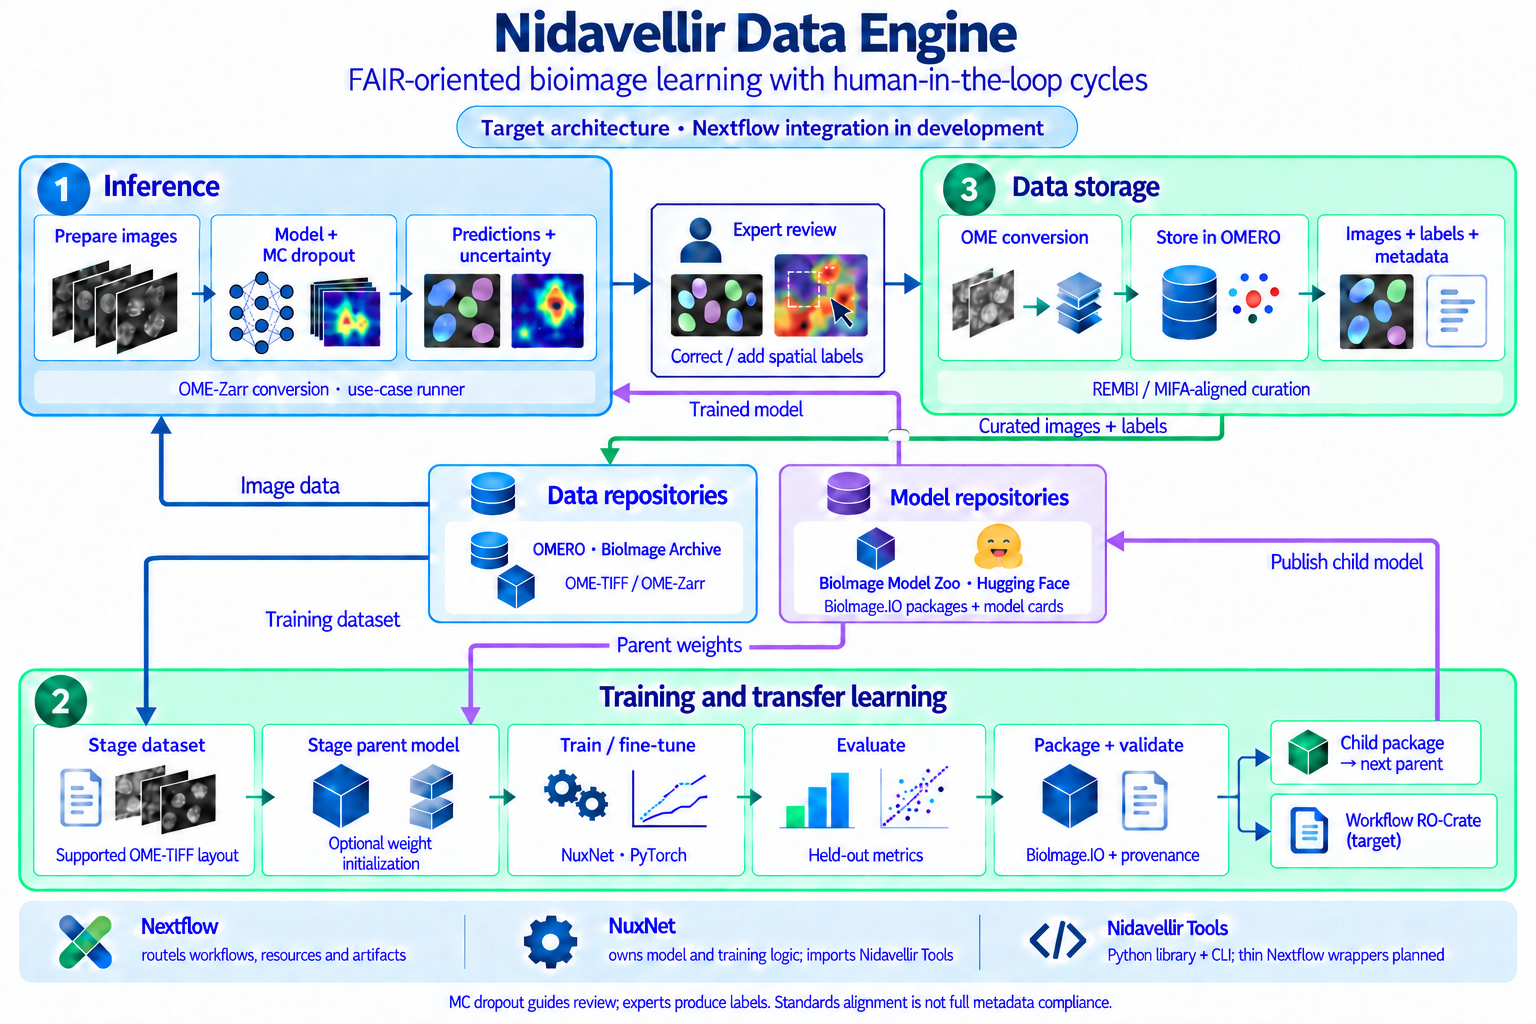
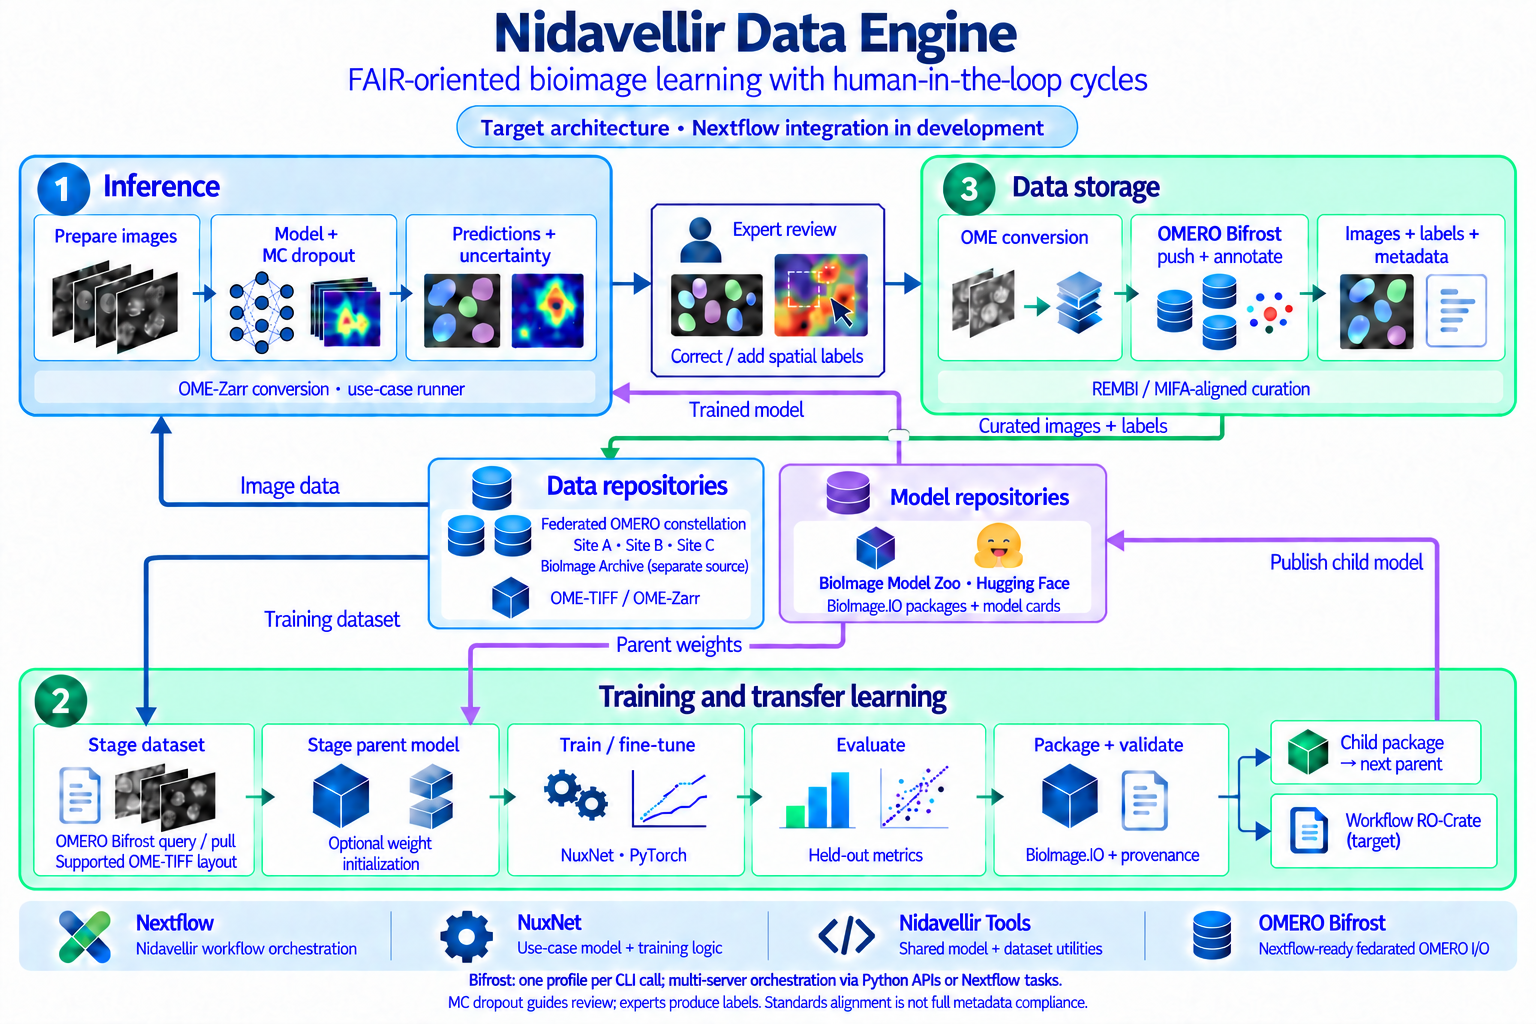
docs: include OMERO Bifrost and federated repository architecture

diff --git a/README.md b/README.md
@@ -24,7 +24,7 @@
 
 ## Architecture and related repositories
 
-![Graphical abstract of the target Nidavellir architecture: inference and uncertainty guide expert spatial annotation; curated datasets and reusable parent model packages support subsequent training runs.](docs/images/nidavellir-graphical-abstract.png)
+![Target Nidavellir architecture: OMERO Bifrost connects Nextflow to federated OMERO constellations; inference and uncertainty guide expert spatial annotation, while curated datasets and parent model packages support subsequent training runs.](docs/images/nidavellir-graphical-abstract.png)
 
 *Graphical abstract of the target lifecycle, not a completion or compliance claim.
 The companion tools provide reusable building blocks; end-to-end Nextflow wiring
@@ -42,6 +42,7 @@ companion repositories.
 | 1. User entry point and orchestration | [Nidavellir](https://github.com/luiskuhn/nidavellir) — this repository | Route workflows, connect inputs and outputs, schedule containerized processes, configure resources, and collect workflow-level provenance. |
 | 2. Use-case applications | [NuxNet Training](https://github.com/luiskuhn/nuxnet-training/tree/master) — current trainer and proof of principle | Own the PyTorch model, scientific preprocessing, training/fine-tuning, and evaluation. Other trainers and inference runners can follow the same integration pattern. |
 | 3. Shared library and CLI applications | [Nidavellir Tools](https://github.com/luiskuhn/nidavellir-tools) | Provide reusable dataset-reading and model-package operations, including packaging, staging, loading, validation, and publication. |
+| 3. Repository access and transfer companion | [OMERO Bifrost (`forward-cycle`)](https://github.com/luiskuhn/omero-bifrost/tree/forward-cycle) | Provide workflow-oriented image/metadata operations across single OMERO servers or federated constellations, designed for Nextflow/nf-core and Nidavellir. |
 
 ### How the layers connect
 
@@ -64,10 +65,47 @@ version reporting, while delegating package logic to the tools themselves.
 Library-only functionality stays inside the trainer or inference runner.
 
 Data conversion and OMERO storage are separate workflow adapters, not additional
-responsibilities of the trainer. BioImage Archive provides datasets; BioImage.IO
+responsibilities of the trainer. OMERO Bifrost is the Nidavellir ecosystem's
+dedicated repository-access companion, complementary to Nidavellir Tools.
+BioImage Archive provides datasets; BioImage.IO
 defines model interchange and validation; BioImage Model Zoo and Hugging Face
 are model-sharing destinations. Creating a compatible package does not
 automatically publish it to either service.
+
+### OMERO Bifrost and federated constellations
+
+[OMERO Bifrost](https://github.com/luiskuhn/omero-bifrost/tree/forward-cycle) is part
+of the Nidavellir project and is designed to connect **Nextflow/nf-core workflows,
+including Nidavellir, to one or many OMERO servers**. Its query, push, and pull
+operations separate workflow logic from endpoint-specific hosts, credentials,
+group scopes, and access policies. The intended modules use it to discover and
+stage image data for training/inference, and to store curated images, labels,
+and metadata after expert review.
+
+A **federated OMERO constellation** is a set of independently configured OMERO
+endpoints accessed through this common operational interface—not a single
+database or an automatic replication service. On the linked development branch,
+each CLI invocation selects one server profile; multi-server execution is
+available through Bifrost's Python federation APIs, or can be orchestrated as
+profile-specific Nextflow tasks. Preserve server-qualified object identities
+(server profile plus local object ID), provenance, and per-site failures across
+workflow handoffs. Credentials and authorization remain site-specific and should
+be supplied securely at runtime, not embedded in samplesheets or published artifacts.
+
+Bifrost owns remote OMERO interaction and its constrained, standards-aware
+metadata handling; Nidavellir Tools owns local dataset reading and reusable
+model operations. BioImage Archive remains a separate dataset source, not an
+OMERO endpoint managed by Bifrost. This separation allows a trainer to consume
+staged files without knowing which institution holds the source images.
+
+**Integration boundary:** Bifrost provides the companion capability; this
+pipeline's current upload module still invokes the OMERO CLI directly. The
+Bifrost-backed modules and constellation-aware channels shown in the target
+architecture are planned integration, not enabled by this documentation update.
+See Bifrost's [architecture](https://github.com/luiskuhn/omero-bifrost/blob/forward-cycle/docs/architecture.md),
+[Nextflow integration guide](https://github.com/luiskuhn/omero-bifrost/blob/forward-cycle/docs/nextflow-nfcore.md),
+and [current command/profile contracts](https://github.com/luiskuhn/omero-bifrost/tree/forward-cycle#readme)
+for implementation details; pin and verify the chosen revision when building modules.
 
 ### Workflow handoffs and responsibilities
 
@@ -99,6 +137,7 @@ companion applications are already connected end to end.
 | --- | --- |
 | Track routing | Implemented in `main.nf`. |
 | Conversion and storage | OME-Zarr/OME-TIFF conversion and OMERO upload-manifest wiring exist; live OMERO operations are opt-in (`omero_dry_run` defaults to true). |
+| Federated OMERO access | Designed around OMERO Bifrost; profile-aware Bifrost wrappers are not yet wired into these tracks. Current upload uses the OMERO CLI directly. |
 | [Training](workflows/training.nf) | Six-stage scaffold; it does not yet invoke NuxNet or the shared Nidavellir Tools CLI. |
 | [Inference](workflows/inference.nf) | Conversion/export scaffold with pass-through model logic; mask/labelled filenames do not yet represent actual segmentation. |
 | Model lifecycle integration | Local staging/publication/RO-Crate building blocks exist. Thin Nidavellir Tools wrappers and end-to-end trainer integration remain to be wired and tested. |
@@ -112,6 +151,8 @@ companion applications are already connected end to end.
   the [NuxNet README](https://github.com/luiskuhn/nuxnet-training/blob/master/README.md).
 - **Shared Python APIs, CLI syntax, package formats, and validation requirements:**
   the [Nidavellir Tools README](https://github.com/luiskuhn/nidavellir-tools#readme).
+- **OMERO transfers, federation, server profiles, and metadata operations:**
+  the [OMERO Bifrost README](https://github.com/luiskuhn/omero-bifrost/tree/forward-cycle#readme).
 
 Keep application-specific instructions in those companion repositories.
 This repository documents their workflow integration and artifact handoffs.
@@ -254,6 +295,10 @@ The architecture is explicitly designed for end-to-end human-in-the-loop learnin
 
 ### Workflow diagram (current tracks and target HITL loop)
 
+The SVG includes a separate target-integration inset for OMERO Bifrost and
+federated OMERO sites. Dashed federation connections in the Mermaid source below
+describe planned wiring, not the current direct-OMERO-CLI upload implementation.
+
 [Download the vector graphic (SVG)](docs/images/nf-core-nidavellir_contained-workflows.svg)
 
 ![nf-core/nidavellir contained workflow tracks](docs/images/nf-core-nidavellir_contained-workflows.svg)
@@ -310,6 +355,21 @@ flowchart TD
     H --> E1
     E6 --> I[Versioned model and provenance artifact for redeployment]
     I --> F2
+
+    subgraph FED[Target federation integration - not yet wired]
+        BF[OMERO Bifrost - Nextflow-ready query / push / pull]
+        OA[OMERO site A]
+        OB[OMERO site B]
+        OC[OMERO site C]
+        BF <-->|profile A| OA
+        BF <-->|profile B| OB
+        BF <-->|profile C| OC
+    end
+    B -.->|profile-specific tasks| BF
+    BF -.->|stage images and labels| E1
+    BF -.->|stage image data only| F1
+    C3 -.->|push curated data and metadata| BF
+    H -.-> C1
 ```
 
 </details>

diff --git a/docs/architecture.md b/docs/architecture.md
@@ -17,12 +17,42 @@ Each track is designed to exchange machine-readable outputs (for example OME-Zar
 | Nextflow | Workflow orchestration and scalable execution on local/HPC/cloud platforms. |
 | nf-core | Pipeline standards, community conventions, schema-driven parameters, and reusable modules. |
 | OMERO | Image and annotation management for staging training data and writing curated labels/metadata back to storage. |
+| [OMERO Bifrost](https://github.com/luiskuhn/omero-bifrost/tree/forward-cycle) | Nidavellir companion providing Nextflow-ready query/push/pull operations for single OMERO servers and federated OMERO constellations. |
 | OME-Zarr (NGFF) | Cloud- and analysis-friendly image format for staged training/inference inputs and downstream interoperability. |
 | PyTorch | Deep-learning framework for model training and evaluation (for example segmentation models such as U-Net). |
 | BioImage Model Zoo | Source for pretrained models and destination for publishing validated model artifacts. |
 | RO-Crate | FAIR packaging layer for data/model/provenance outputs with machine-readable metadata. |
 
 ## Workflow tracks
+
+### Federated repository access through OMERO Bifrost
+
+OMERO Bifrost is part of the Nidavellir ecosystem and is designed for integration
+with Nextflow/nf-core, including this pipeline. It supplies the remote-repository
+boundary; trainers and Nidavellir Tools work on staged artifacts rather than
+embedding institution-specific server logic. A constellation is a collection of
+independent OMERO endpoints with separate credentials, group scopes, and access
+policies—not automatic cross-site replication or a shared authorization domain.
+
+On the linked `forward-cycle` branch, the CLI targets one profile per invocation.
+Bifrost's Python federation APIs support multi-server operations; alternatively,
+Nextflow can dispatch one task per selected profile. Downstream records must
+retain the server profile together with each local object ID, plus provenance
+and failure information. Keep secrets out of channels and published metadata.
+
+The intended connections are:
+
+- Query/pull image data for inference and image/annotation pairs for training.
+- Push curated outputs and metadata back to explicitly selected OMERO sites.
+- Keep BioImage Archive access separate; it is not an OMERO constellation member.
+- Keep model-registry staging in Nidavellir Tools; Bifrost supplies image data,
+  not the inference model.
+
+Current pipeline upload still uses the OMERO CLI directly. Bifrost wrappers and
+constellation-aware workflow channels remain integration work. See the
+[README federation section](../README.md#omero-bifrost-and-federated-constellations),
+[Bifrost architecture](https://github.com/luiskuhn/omero-bifrost/blob/forward-cycle/docs/architecture.md),
+and [Nextflow integration guide](https://github.com/luiskuhn/omero-bifrost/blob/forward-cycle/docs/nextflow-nfcore.md).
 
 ### Training pipeline
 

diff --git a/docs/images/nidavellir-graphical-abstract.md b/docs/images/nidavellir-graphical-abstract.md
@@ -16,6 +16,30 @@ their respective staging steps; child packages return to model repositories.
 The green/purple crossing is not a connection. See the README for the precise
 artifact contracts and implementation status.
 
+The federation update identifies OMERO Bifrost as a Nidavellir companion designed
+for Nextflow and federated OMERO constellations. BioImage Archive is shown as a
+separate source. Bifrost targets one profile per CLI invocation; multi-server
+execution uses Python federation APIs or profile-specific Nextflow tasks.
+All eight lifecycle connector endpoints were preserved in this update.
+
+## OMERO Bifrost federation edit prompt
+
+```text
+Edit this existing Nidavellir graphical abstract with ONLY localized text/icon updates to document OMERO Bifrost. Preserve exact overall layout, ALL eight external arrow origins, routes, destinations and labels, ALL internal arrows, and all unrelated contents. Do not add, remove or reconnect arrows.
+1. In top-right Data storage panel, change middle card heading from "Store in OMERO" to two lines: "OMERO Bifrost" / "push + annotate". Replace single database symbol with 3 small database cylinders representing distinct OMERO sites, retaining within same card. Keep OME conversion and images/labels/metadata cards.
+2. In central BLUE Data repositories box replace "OMERO · BioImage Archive" with three compact lines, readable: "Federated OMERO constellation", "Site A · Site B · Site C", "BioImage Archive (separate source)". Replace its single OMERO cylinder icon with a compact cluster of three database cylinders. Keep box title Data repositories and format line OME-TIFF / OME-Zarr. If necessary enlarge this box slightly DOWN into free space without overlapping arrows; no arrow reassignment. This must not imply BioImage Archive is an OMERO endpoint.
+3. In bottom training Stage dataset card retain "Supported OME-TIFF layout", add small "OMERO Bifrost query / pull" above it, without covering icons.
+4. Replace bottom responsibility strip with FOUR equally spaced columns. Exact text:
+"Nextflow" / "Nidavellir workflow orchestration"
+"NuxNet" / "Use-case model + training logic"
+"Nidavellir Tools" / "Shared model + dataset utilities"
+"OMERO Bifrost" / "Nextflow-ready federated OMERO I/O"
+Use simple existing-style icons, no new external arrows.
+5. Keep prominent status "Target architecture · Nextflow integration in development", keep final MC dropout/standards caveat.
+6. Add a compact readable note below responsibility strip or near it: "Bifrost: one profile per CLI call; multi-server orchestration via Python APIs or Nextflow tasks".
+Keep every inference input, expert-review output, storage->data repo, dataset->stage dataset, model->stage parent, child->model repo arrow EXACTLY. Preserve scientific legibility and no text collisions.
+```
+
 ## Initial generation brief
 
 ```text
